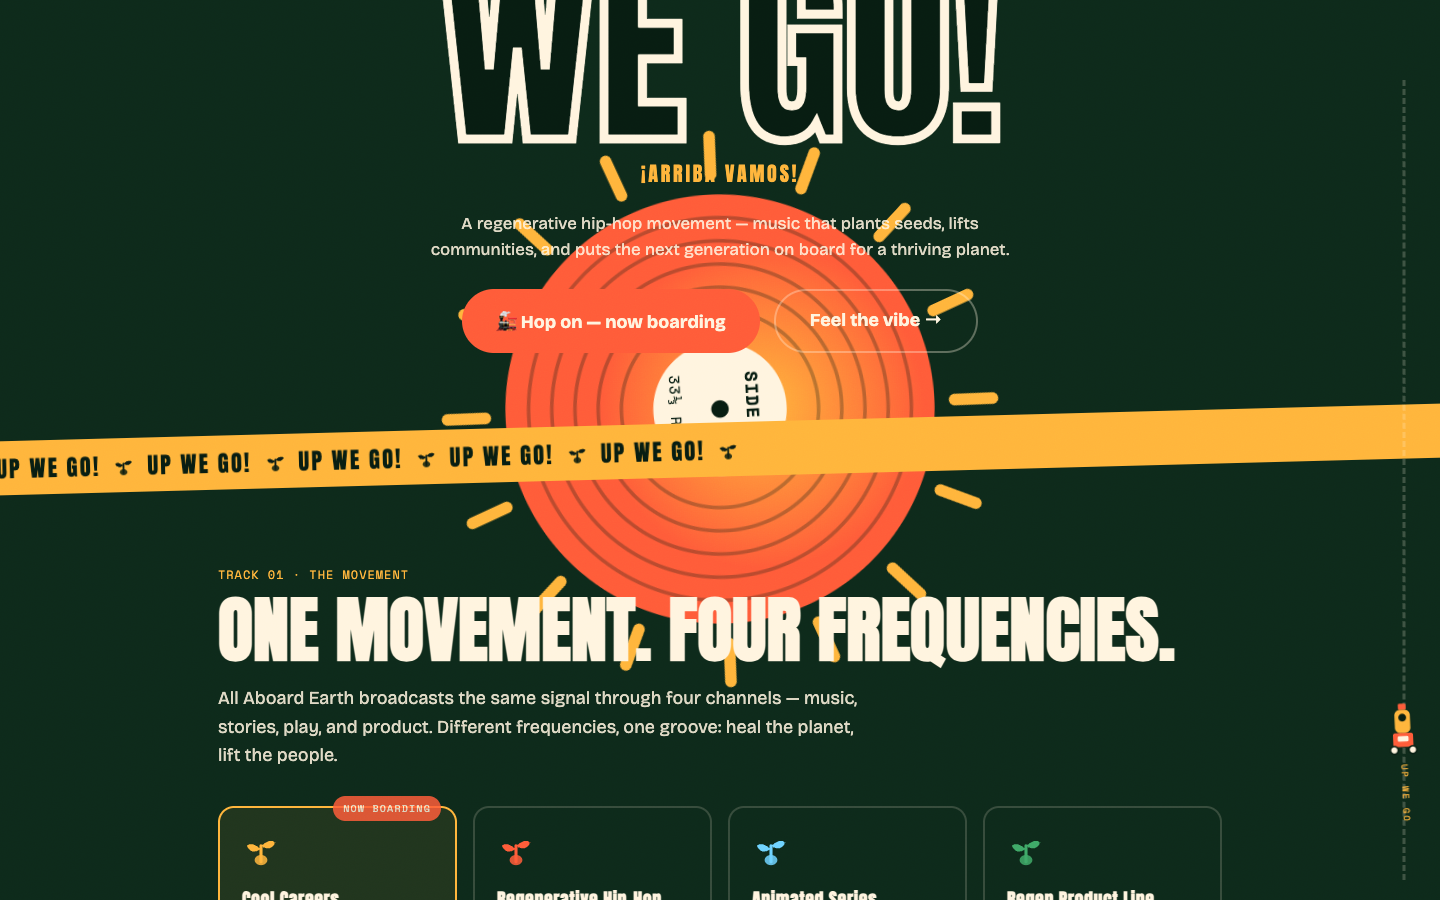
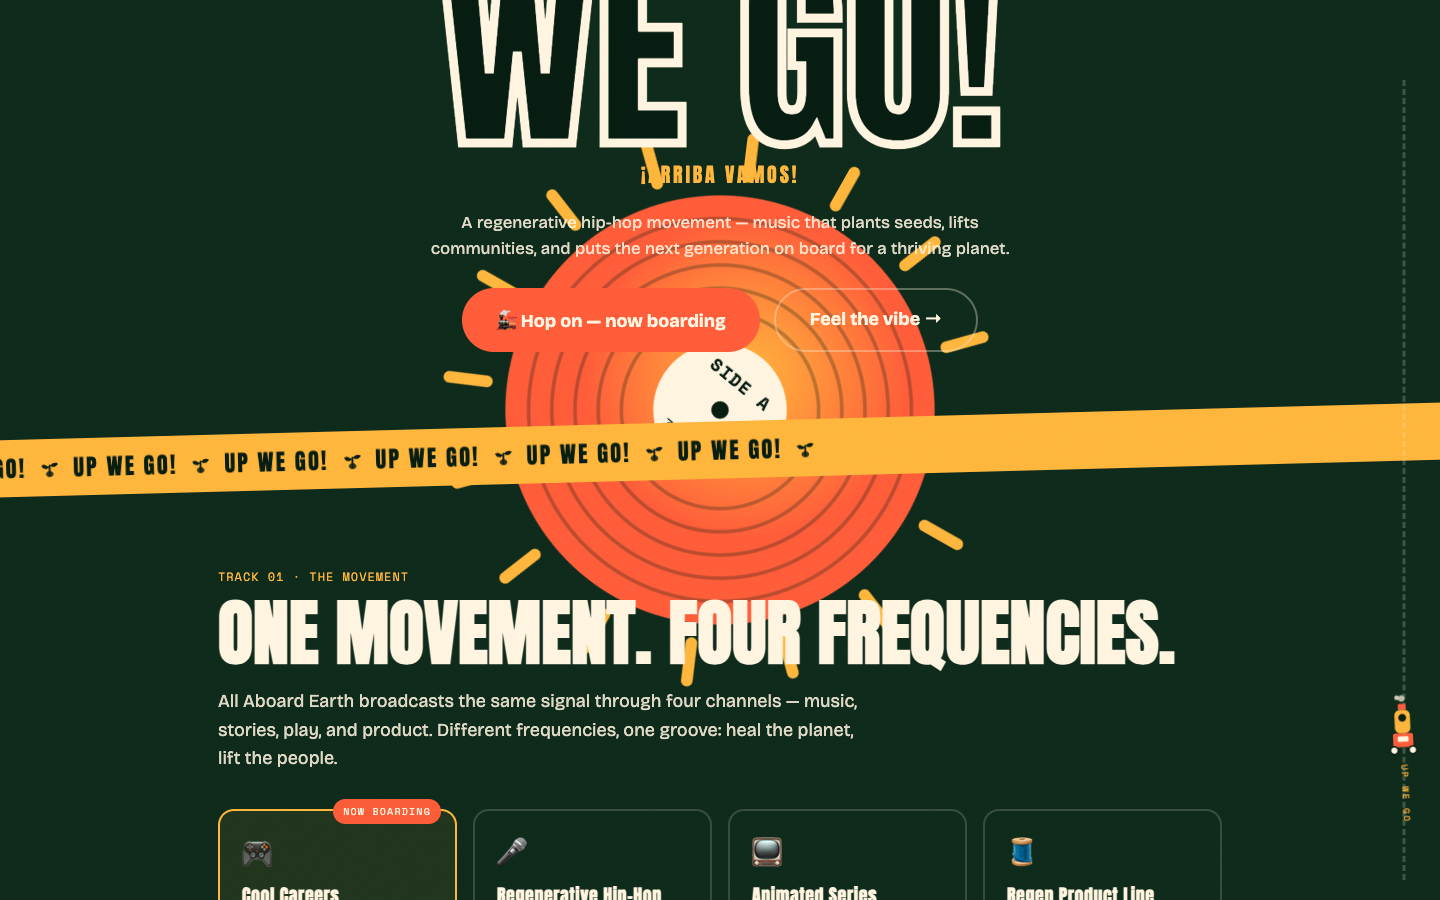
Cut desktop CLS from 0.092 to 0.019 by locking font-swap boxes
Lighthouse put desktop CLS at 0.092, over the briefs 0.05 bar. The
shift lands at ~1.6s, which is the web fonts arriving: the marquee band
resized 67px -> 56px as Anton replaced the fallback, and the eyebrow
changing height nudged the whole hero down with it.

Fixed by sizing the boxes instead of changing the fonts, so display:swap
stays and Anton still renders as the design intends:
- .marquee gets an explicit 56px height and .marquee-inner a 36px
  line-height, so the band cannot resize under it
- .hero-eyebrow and .hero-accent get explicit line-height plus min-height
- .mono gets an explicit line-height

Desktop CLS 0.092 -> 0.019, mobile stays 0.000.

diff --git a/src/AllAboardEarthPrototype.jsx b/src/AllAboardEarthPrototype.jsx
@@ -540,7 +540,7 @@ export default function App() {
         .seed-grow{ transform-origin:50% 30%; }
         [data-reveal].seed-grow{ transform:translateY(24px) scale(.72); }
         [data-reveal].seed-grow.in{ transform:translateY(0) scale(1); }
-        .mono { font-family:'Space Mono', monospace; font-size:12px; letter-spacing:.08em; }
+        .mono { font-family:'Space Mono', monospace; font-size:12px; letter-spacing:.08em; line-height:1.5; }
         .display { font-family:'Anton', sans-serif; text-transform:uppercase; line-height:.92; }
 
         /* reveal */
@@ -582,7 +582,7 @@ export default function App() {
         .btn.ghost{ background:transparent; border:2px solid ${T.cream}55; box-shadow:none; }
         .btn.ghost:hover{ border-color:${T.marigold}; color:${T.marigold}; }
         a.btn{ text-decoration:none; }
-        .hero-accent{ position:relative; z-index:2; font-family:'Anton'; color:${T.marigold}; font-size:clamp(14px,2.2vw,20px); letter-spacing:.14em; margin-top:10px; }
+        .hero-accent{ position:relative; z-index:2; font-family:'Anton'; color:${T.marigold}; font-size:clamp(14px,2.2vw,20px); letter-spacing:.14em; margin-top:10px; line-height:26px; min-height:26px; }
 
         /* hero + vinyl sun */
         .hero{ position:relative; padding:clamp(40px,8vh,90px) clamp(16px,4vw,48px) 0; text-align:center; }
@@ -597,7 +597,7 @@ export default function App() {
         .hero:hover .vinyl-disc{ animation-duration:22s; }
         .sun-rays{ transform-origin:200px 200px; animation:spin 60s linear infinite; }
         @keyframes spin{ to{ transform:rotate(360deg); } }
-        .hero-eyebrow{ position:relative; z-index:2; color:${T.marigold}; margin-bottom:14px; }
+        .hero-eyebrow{ position:relative; z-index:2; color:${T.marigold}; margin-bottom:14px; line-height:18px; min-height:18px; }
         .hero-word{ position:relative; z-index:2; font-size:clamp(64px,17vw,220px); color:${T.cream}; }
         .hero-word span{ display:inline-block; animation:pop .8s cubic-bezier(.2,.9,.3,1.3) both; }
         .hero-word.l2 span{ animation-delay:.15s; color:${T.pineDeep}; -webkit-text-stroke:2px ${T.cream}; text-stroke:2px ${T.cream}; }
@@ -606,8 +606,8 @@ export default function App() {
         .hero-ctas{ position:relative; z-index:2; display:flex; gap:14px; justify-content:center; flex-wrap:wrap; padding-bottom:70px; }
 
         /* marquee */
-        .marquee{ background:${T.marigold}; color:${T.pineDeep}; overflow:hidden; transform:rotate(-1.5deg) scale(1.02); padding:10px 0; }
-        .marquee-inner{ display:inline-block; white-space:nowrap; font-family:'Anton'; font-size:22px; letter-spacing:.1em; animation:slide 35s linear infinite; }
+        .marquee{ background:${T.marigold}; color:${T.pineDeep}; overflow:hidden; transform:rotate(-1.5deg) scale(1.02); padding:10px 0; height:56px; }
+        .marquee-inner{ display:inline-block; white-space:nowrap; font-family:'Anton'; font-size:22px; line-height:36px; letter-spacing:.1em; animation:slide 35s linear infinite; }
         .marquee:hover .marquee-inner{ animation-play-state:paused; }
         .marquee-unit{ display:inline-flex; align-items:center; }
         .seed-sep{ width:22px; height:22px; margin:0 .55em; color:${T.pineDeep}; flex:none; }
